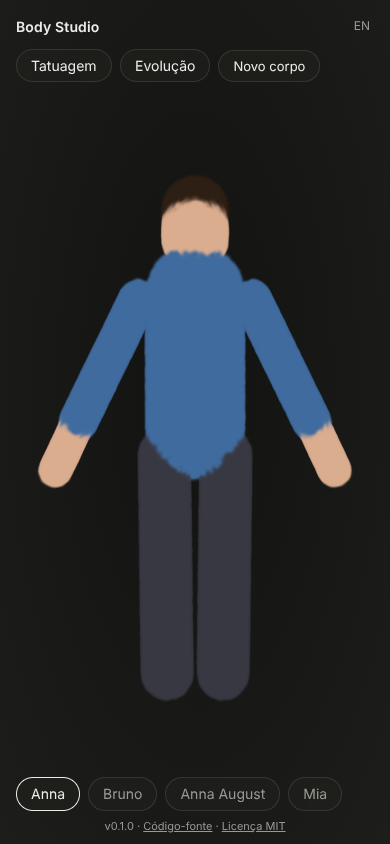
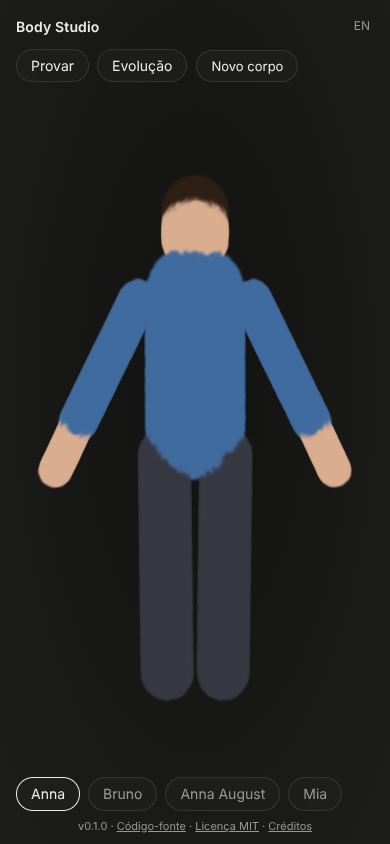
Screenshots: the Try on panel with clothes, and the Credits link
Claude-Session: https://claude.ai/code/session_01PegQXu8Zcnpxatdn9NekV5

diff --git a/scripts/screenshots.py b/scripts/screenshots.py
@@ -152,13 +152,13 @@ def tattoo_scene(page, tmp: Path) -> None:
         })()""")
 
 def wardrobe_scene(page) -> None:
-    """Mia walking in a T-shirt, jeans, sneakers and a ponytail."""
+    """Mia walking in a T-shirt, jeans, sneakers and a bob, the Clothes section in view."""
     page.locator(".shelf button", has_text="Mia").click()
     page.wait_for_function("bodyViewer.file().includes('Mia') && bodyViewer.numSplats() > 0", timeout=60000)
     page.click("#studioBtn")
     page.wait_for_function("window.wardrobe && wardrobe.ready", timeout=300000)
     page.evaluate("bodyApp.viewer.controls.autoRotate = false")
-    for item in ("tee_jeans_f", "white_sneakers", "ponytail"):
+    for item in ("tee_jeans_f", "white_sneakers", "bob_dark"):
         page.click(f"#wearSlots [data-item={item}]")
         page.wait_for_function(f"wardrobe.worn().includes('{item}')", timeout=120000)
     page.locator("#presets button").nth(3).click()                 # walking
@@ -170,6 +170,7 @@ def wardrobe_scene(page) -> None:
     # on screen, then for one more sort from the new angle
     page.wait_for_function("""(() => { const s = bodyApp.viewer.spark;
       return s.display === s.current && s.display.numSplats > bodyViewer.numSplats() + 1000; })()""", timeout=300000)
+    page.evaluate("document.getElementById('studio').scrollTop = 0")
     page.wait_for_timeout(30000)
 
 
